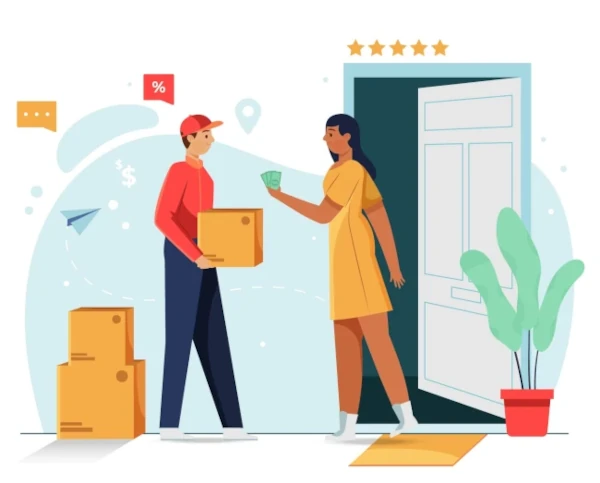
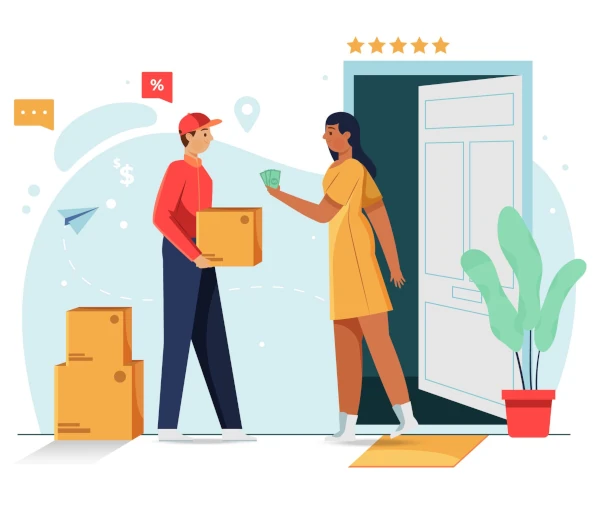
bug fixed

Changed region(s): [[0.0, 0.0621, 0.99, 0.9938], [0.03, 0.7764, 0.06, 0.8075]]

diff --git a/campaigns/dhl_partner.html b/campaigns/dhl_partner.html
@@ -612,7 +612,7 @@
           class="col-lg-6 col-md-6 col-12 d-flex ps-sm-0 align-items-center justify-content-center"
         >
           <img
-            src="../assets/images/live_tracking_1.webp"
+            src="../assets/images/live_tracking_2.webp"
             alt="Live Tracking"
             class="img-fluid"
           />
